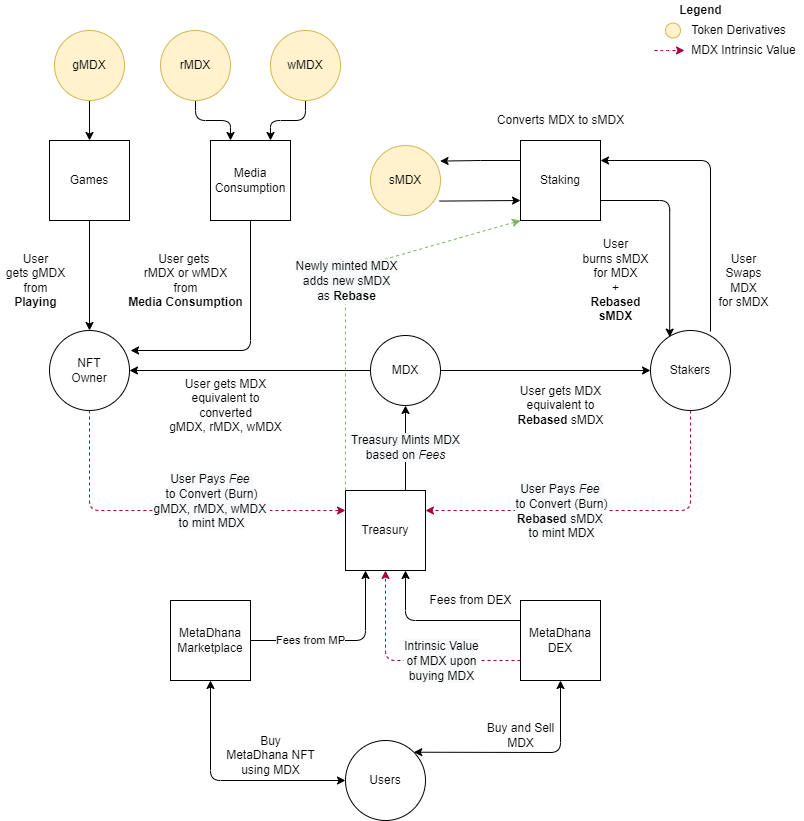
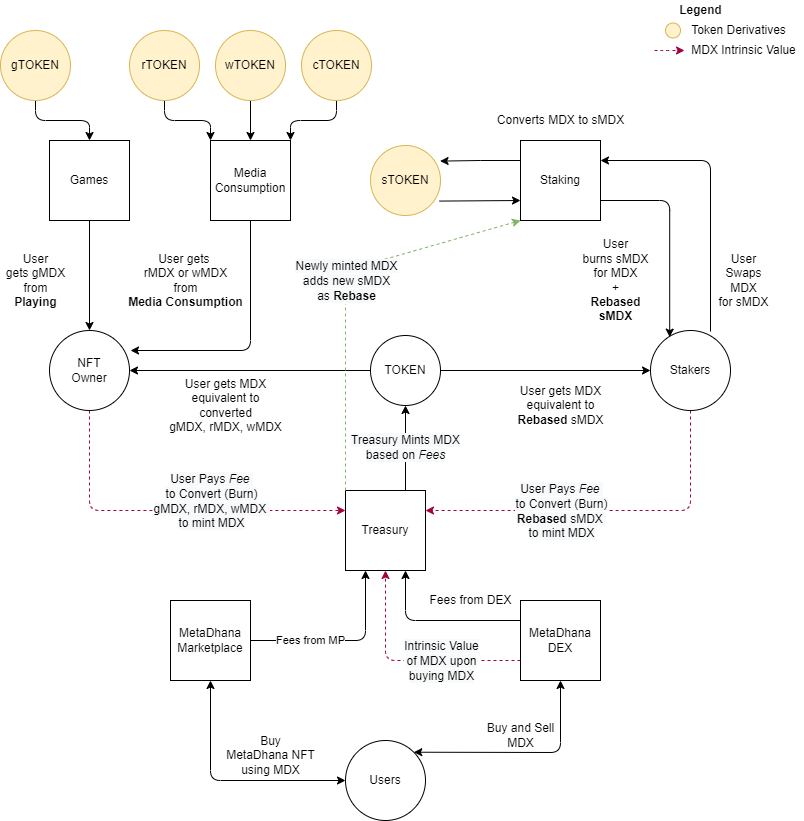
[litepaper v1] first draft

diff --git a/docs/javascripts/mathjax.js b/docs/javascripts/mathjax.js
@@ -1,0 +1,17 @@
+window.MathJax = {
+    tex: {
+      inlineMath: [["\\(", "\\)"]],
+      displayMath: [["\\[", "\\]"]],
+      processEscapes: true,
+      processEnvironments: true
+    },
+    options: {
+      ignoreHtmlClass: ".*|",
+      processHtmlClass: "arithmatex"
+    }
+  };
+  
+  document$.subscribe(() => { // 
+    MathJax.typesetPromise()
+  })
+  

diff --git a/docs/dao/architecture/treasury.md b/docs/dao/architecture/treasury.md
@@ -8,8 +8,8 @@ The DAO would explore other assets that provide revenue opportunities such as De
 
 ### How Tokens are Backed?
 
-The Main token is unlimited in supply with an auto mint and auto burn feature that depends on the value in the protocol’s treasury. If the value of the protocol’s treasury is at Php 1,000,000 then the token supply would be at 1,000,000 regardless of its price.
+The Main token is unlimited in supply with an auto mint and auto burn feature that depends on the value in the protocol’s treasury. If the value of the protocol’s treasury is at $200,000 (PHP 10,000,000) then the token supply would be at 10,000,000 regardless of its price.
 
-If the total value of treasury decreases to Php 800,000 then 200,000 tokens would be burned and reduce circulating supply to 800,000 regardless of its price. However, if the value of assets in treasury increases, token supply would not increase.
+If the total value of treasury decreases to $180,000 (PHP 9,000,000) then 1,000,000 tokens would be burned and reduce circulating supply to 9,000,000 regardless of its price. However, if the value of assets in treasury increases, token supply would not increase.
 
 The only way for token supply to increase is for stakers, gamers, media consumers, and others to mint Token and pay for its intrinsic value in the process. This method allows the protocol to back every token based on its intrinsic value.

diff --git a/docs/dao/utilities/media-consumption.md b/docs/dao/utilities/media-consumption.md
@@ -1,8 +1,8 @@
 # Media Consumption (r|w|cTokens)
 
-A concept derived from the gaming mechanism (play-to-earn), expanding into other forms of leisure (i.e. Reading and Watching) that allows the project to target a wider audience that fancies reading and watching media content.
+A concept derived from the gaming mechanism (play-to-earn), expanding into other forms of leisure (i.e. Reading and Watching) and even a chat-to-earn feature that allows the project to target a wider audience that fancies reading and watching media content.
 
-Read-to-Earn, and Watch-to-Earn, will each have their own token derivative represented by rToken and wToken, respectively. Claiming these tokens as rewards follows the same process in claiming gToken, wherein the claimant burns rToken and/or wToken and pays a fee equivalent to the main token’s intrinsic value to mint the main Token.
+Read-to-Earn, Watch-to-Earn, and Chat-to-Earn will each have their own token derivative represented by rToken and wToken, respectively. Claiming these tokens as rewards follows the same process in claiming gToken, wherein the claimant burns rToken and/or wToken and pays a fee equivalent to the main token’s intrinsic value to mint the main Token.
 
 \[
 1 \text{ }Token = 1 \text{ }rToken + Intrinsic \text{ }Value

diff --git a/docs/metazoan/README.md b/docs/metazoan/README.md
@@ -12,13 +12,5 @@
 <a href="../../../assets/images/metazoan-banner.png" target="blank"><img src="../../../assets/images/metazoan-banner.png" alt="ecosystem"></a>
 
 <i>A group of Metazoan scientists, an advanced race of Genus Animalia, discovered an ancient gate complex that can connect different worlds — the Metagate.</i>
-</br>
-...
-</br>
-click <a href="https://www.metadhana.io/metazoan#factions" target="_blank">here</a> for more
-
-## <a href="https://www.metadhana.io/metazoan" target="_blank">Order of the Felix</a>
-
-The **9,999** NFT beings are embedded with unique personality traits that you can activate in the future. Experience the meta-universe of Feral Syndicators and Omni Alliance, where you can participate in writing it’s history. Become a warrior, lord, or legend. Create your destiny.
 
 </center>

diff --git a/docs/dao/tokenomics/README.md b/docs/dao/tokenomics/README.md
@@ -21,3 +21,11 @@ Initital \text{ }Token \text{ }Supply = f(Presale,\text{ }Team)
 \]
 
 Team provided assets would come from a percentage (%) of the NFT sale rounds.
+
+## Minting
+
+Tokens will be minted when derivative tokens are exchanged for the main Token, and in order to keep each minted token backed based on its intrinsic value a fee must be paid for the minter.
+
+## Burning
+
+There will be other token burns to be implemented in the future. The current burn mechanism we have is that whenever the value of the assets in the treasury falls below the number of Circulating Token multiplied by its Intrinsic Value, then the decrease in treasury value would be the number of tokens burnt.

diff --git a/docs/dao/tokenomics/presale-token.md b/docs/dao/tokenomics/presale-token.md
@@ -4,4 +4,4 @@ The presale Token, pToken, is a precursor derivative of the main Token. Just lik
 
 ## pToken Tokenomics
 
-The team has a soft cap of $(\_\_\_), but an unlimited hard cap. Given these details, the tokenomics would be based on the soft cap target of the team.
+The team has a soft cap, but an unlimited hard cap. Given these details, the tokenomics would be based on the soft cap target of the team.

diff --git a/docs/dao/architecture/README.md b/docs/dao/architecture/README.md
@@ -1,7 +1,5 @@
 # Architecture
 
-Word explanation
-
 ## Overview
 
 Below is a top-level overview of the DAO's concepts
